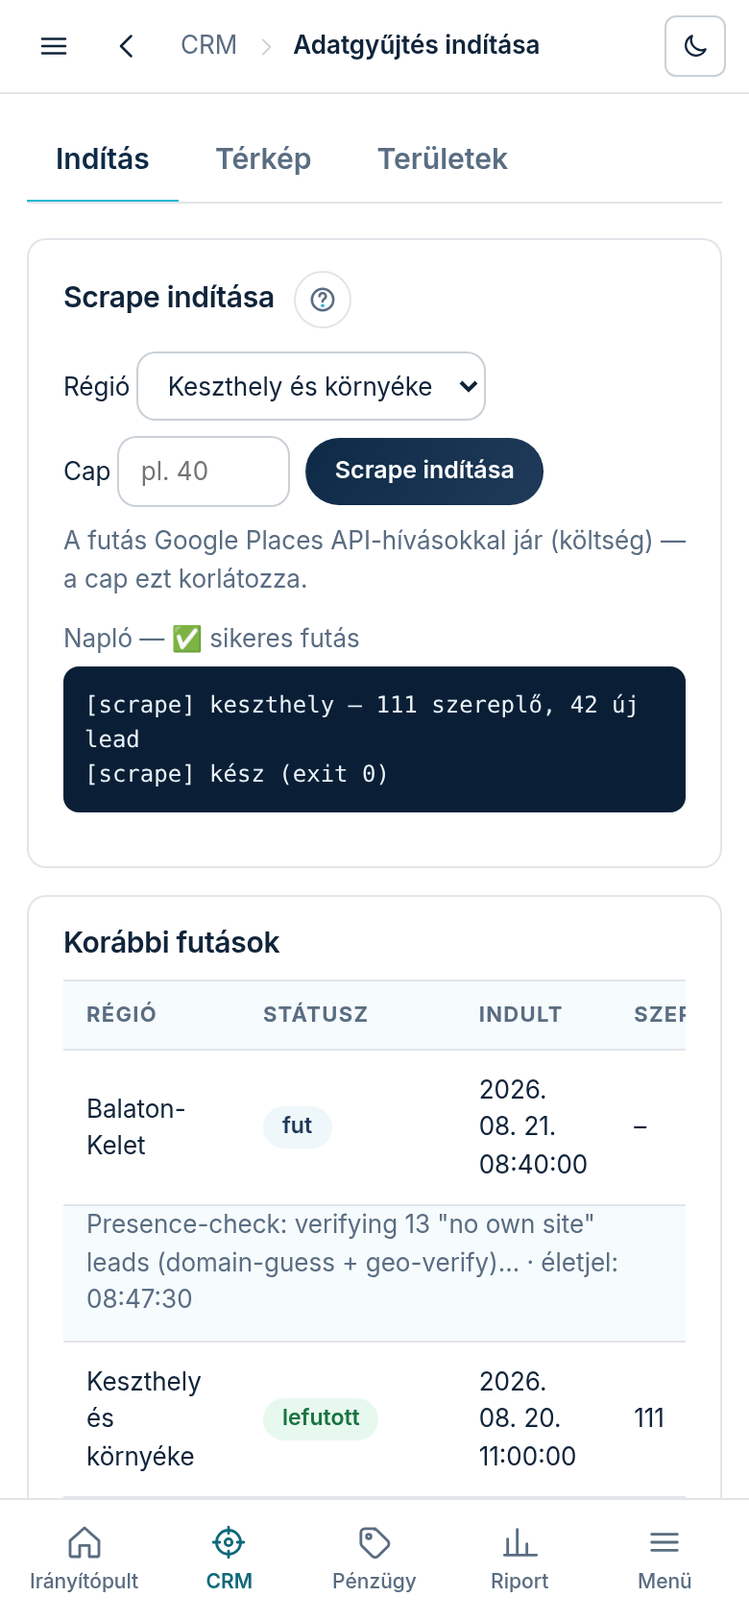
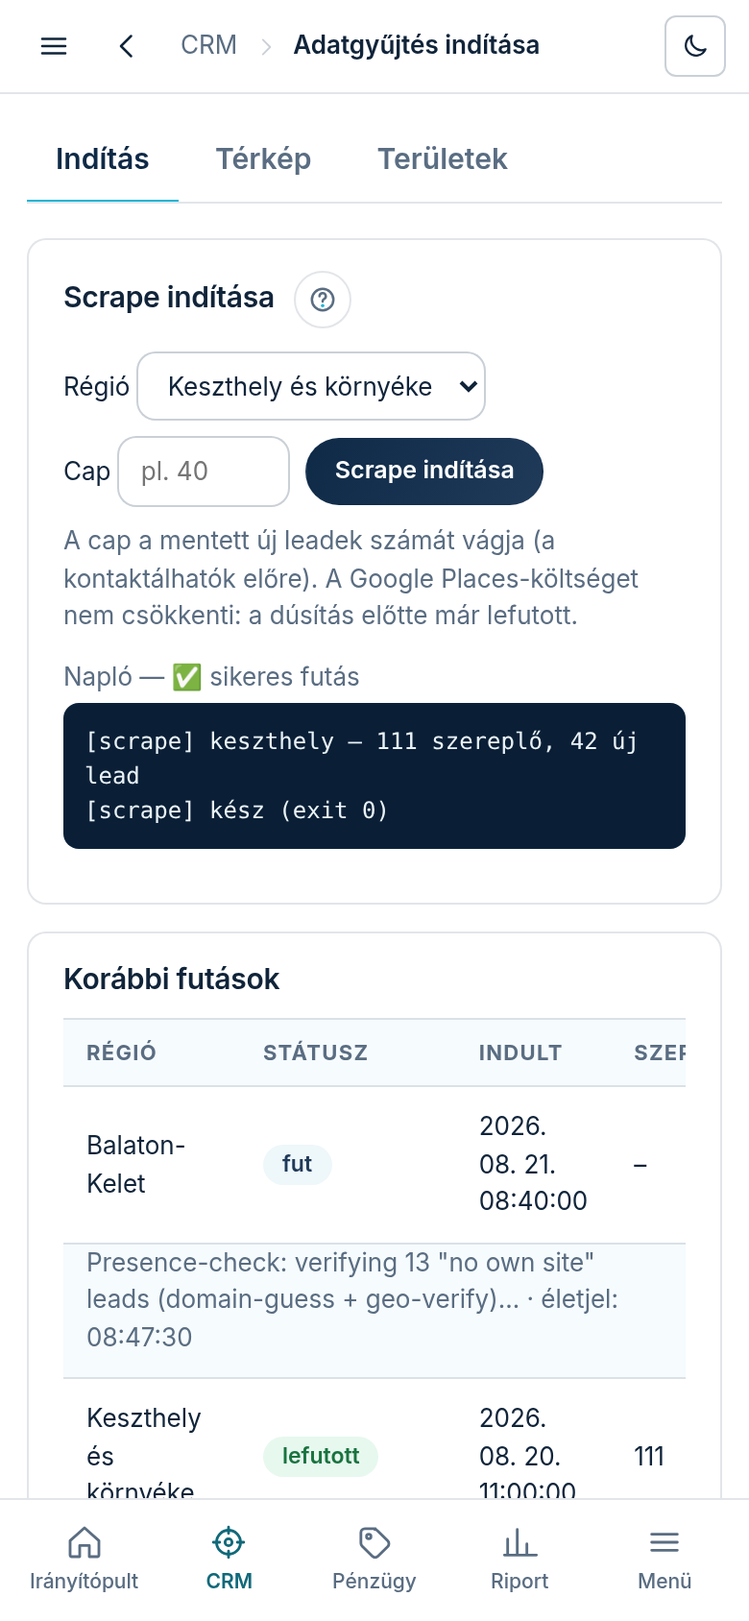
feat(scrape): nincs költség-cap — a Details-keret figyelmeztet; igaz cap-felirat; booking.com kihagyva; hovamenjek fullHd (ADR-XXXX)
- konzol + KB: a „Cap” a mentett új leadek számát vágja, a Places-költséget NEM (a dúsítás után vág); 2 súgó-kép újra
- googleMaps: PLACES_DETAILS_MAX_CALLS → figyelmeztetési szint (PLACES_DETAILS_WARN_CALLS), minden új hely adatlapot kap;
  a figyelmeztetés LeadSource.warnings() → scrape_run.stats.warnings → a konzol futás-sora
- registry: booking.com challenge_protected (AWS WAF 202, mérve) — nem olvassuk
- registry: hovamenjek largestPhotoUrl main → fullHd (a main a számozott fájlokra 404 volt); a kért kép-cache
  helyett, mert futáson belül 317/321 URL egyedi
- mérés (éles 40-es minta, lokális olvasás): backfill 98/64 s → 49/50 s; ≥800 px portál-fotó 230 → 340
- őrök: scrape-coverage-check ⑧, portal-uncapped-check 4. (+ registry trigger), photo-quality-check fullHd

Claude-Session: https://claude.ai/code/session_01R8NwBJaixta9LGg4CTWGnV

diff --git a/src/scraper/sources/googleMaps.ts b/src/scraper/sources/googleMaps.ts
@@ -89,10 +89,15 @@ const QUERY_RESULT_CEILING = 60;
  *  to full, saturation-free coverage; a 32 km circle is ~16× the area but far
  *  sparser outside the town cores. */
 const DISCOVERY_MAX_CALLS = Number(process.env.PLACES_DISCOVERY_MAX_CALLS ?? 600);
-/** Hard per-run cap on the PAID step: Place Details for ids new to our DB. Sized
- *  above the largest measured run (2026-09-27/28: 2 589 new leads over two runs);
- *  at $20/1000 the cap bounds one run at ~$80. Hitting it is LOUD. */
-const DETAILS_MAX_CALLS = Number(process.env.PLACES_DETAILS_MAX_CALLS ?? 4000);
+/** Per-run WARNING line on the PAID step: Place Details for ids new to our DB.
+ *  NOT a cap (owner, 2026-10-02: "Nincsen cap. Saját magunkat korlátozzuk be.") —
+ *  every new place still gets its Details call; crossing the line is LOUD in the
+ *  log and in the run's stats. Sized above the largest measured run (2026-09-27/28:
+ *  2 589 new leads over two runs); at $20/1000 the line sits at ~$80/run.
+ *  PLACES_DETAILS_MAX_CALLS is the pre-ADR-XXXX name, still honoured. */
+const DETAILS_WARN_CALLS = Number(
+  process.env.PLACES_DETAILS_WARN_CALLS ?? process.env.PLACES_DETAILS_MAX_CALLS ?? 4000,
+);
 /** Parallel Details requests — the throttle still bounds the rate. */
 const DETAILS_CONCURRENCY = 8;
 
@@ -686,7 +691,7 @@ type Bbox = readonly [number, number, number, number]; // [S, W, N, E]
  *
  * Cost: the traversal itself is free (IDs only); see DISCOVERY_ID_MASK for the
  * two-step design. Known place ids come back from the DB, new ones cost one Place
- * Details call each, hard-capped by DETAILS_MAX_CALLS (loud when hit).
+ * Details call each — never cut; over DETAILS_WARN_CALLS the run says so, loudly.
  */
 export class GoogleMapsSource implements LeadSource {
   readonly name = "google_places";
@@ -695,7 +700,14 @@ export class GoogleMapsSource implements LeadSource {
    *  Injectable so the guard runs without a database; the default reads `lead`. */
   constructor(private readonly knownPlaces: KnownPlacesResolver = defaultKnownPlaces) {}
 
+  private lastWarnings: string[] = [];
+
+  warnings(): string[] {
+    return [...this.lastWarnings];
+  }
+
   async fetch(query: ScrapeQuery): Promise<RawLead[]> {
+    this.lastWarnings = [];
     const key = config.googleMapsApiKey;
     if (!key) {
       console.warn(
@@ -777,9 +789,9 @@ export class GoogleMapsSource implements LeadSource {
     await walk(query.region.bbox);
 
     if (budgetHit) {
-      console.warn(
-        `[google_places] ⚠ HÍVÁS-KERET ELFOGYOTT (${DISCOVERY_MAX_CALLS}) — a lefedettség RÉSZLEGES. Emeld a PLACES_DISCOVERY_MAX_CALLS-t, vagy szűkítsd a területet.`,
-      );
+      const msg = `Google-bejárás: a hívás-keret elfogyott (${DISCOVERY_MAX_CALLS}) — a lefedettség RÉSZLEGES. Emeld a PLACES_DISCOVERY_MAX_CALLS-t, vagy szűkítsd a területet.`;
+      this.lastWarnings.push(msg);
+      console.warn(`[google_places] ⚠ ${msg}`);
     }
 
     // Step 2: what we already know costs nothing; only new ids get Details.
@@ -791,11 +803,13 @@ export class GoogleMapsSource implements LeadSource {
       if (k) byId.set(id, k);
       else fresh.push(id);
     }
-    const detailIds = fresh.slice(0, DETAILS_MAX_CALLS);
-    if (fresh.length > detailIds.length) {
-      console.warn(
-        `[google_places] ⚠ ADATLAP-KERET ELFOGYOTT (${DETAILS_MAX_CALLS}) — ${fresh.length - detailIds.length} új hely adatlap nélkül KIMARADT. Emeld a PLACES_DETAILS_MAX_CALLS-t, vagy szűkítsd a területet.`,
-      );
+    // No cap (ADR-XXXX): every new place gets its Details call. Over the warning
+    // line the run says so up front — the calls are known before they are made.
+    const detailIds = fresh;
+    if (detailIds.length > DETAILS_WARN_CALLS) {
+      const msg = `Google-adatlap: ${detailIds.length} fizetős Place Details hívás ebben a futásban (~${Math.round(detailIds.length * 0.02)} $ listaáron, 20 $/1000) — a figyelmeztetési szint ${DETAILS_WARN_CALLS}. A hívások MENNEK, nincs vágás; ha ez sok, szűkítsd a területet.`;
+      this.lastWarnings.push(msg);
+      console.warn(`[google_places] ⚠ ${msg}`);
     }
     let detailCalls = 0;
     let gone = 0;

diff --git a/src/scraper/sources/portals/registry.ts b/src/scraper/sources/portals/registry.ts
@@ -111,13 +111,16 @@ export const PORTAL_ADAPTERS: readonly PortalAdapter[] = [
     access: "open",
     listingPath: /^\/[a-z0-9-]+\/[a-z0-9-]+\/?$/i,
     // /upload/places/<placeId>/<SIZE>/<file> — the grid serves galleryMiddle (≤483px)
-    // and gallery (80px), the largest derivative is `main` (~574px on the long edge).
-    // Swap the size segment to `main`; a URL that does not fit the shape is returned
-    // untouched. (No `original` exists here — probed 2026-08-23.)
+    // and gallery (80px); the lightbox's data-src names `fullHd` (1080px on the long
+    // edge), served for EVERY gallery image. Swap the size segment to `fullHd`; a URL
+    // that does not fit the shape is returned untouched. (ADR-XXXX, measured
+    // 2026-10-02: the earlier target `main` (~574px) exists for the NAMED files only —
+    // 151 of 321 probes on 9 listings were 404s, 140.7 s of the host's 149 s request
+    // time; `fullHd` answered 206 for named and numbered files alike in ~0.2 s.)
     largestPhotoUrl: (url) =>
       url.replace(
         /(\/upload\/places\/[^/]+\/)[^/]+(\/[^/?#]+\.(?:jpe?g|png|webp))/i,
-        "$1main$2",
+        "$1fullHd$2",
       ),
     note:
       "LocalBusiness JSON-LD (cím, geo, telefon) + galéria. FIGYELEM: a robots.txt " +
@@ -169,6 +172,17 @@ export const PORTAL_ADAPTERS: readonly PortalAdapter[] = [
       "kifejezett elutasítás, NEM kerüljük meg. Ugyanaz a tartalom a booked.hu " +
       "white-label aldomainen nyíltan elérhető; a szallas.hu-hoz partner/affiliate " +
       "megállapodás a jogtiszta út (tulaj-döntés).",
+  },
+  {
+    id: "booking_com",
+    label: "booking.com",
+    hosts: ["booking.com"],
+    access: "challenge_protected",
+    note:
+      "AWS WAF-kihívás fogadja a gépi klienst (HTTP 202, ~4 KB 'challenge' oldal, adat " +
+      "nélkül) — mérve 2026-10-01: 6/6 minta, 2026-10-02: 2/2. Teljes körben ~426 jelölt-URL " +
+      "~10 perc haszontalan olvasás volt (ADR-0294 melléklet a). NEM kerüljük meg; nincs " +
+      "nyílt iker-domain. A jogtiszta út a Booking partner-API (tulaj-döntés, ADR-XXXX).",
   },
   {
     id: "kali_hu",

diff --git a/src/console/views.ts b/src/console/views.ts
@@ -7622,7 +7622,7 @@ export function scrapePage(
         <label>${T(lang, "Régió")} <select name="region">${regionOpts}</select></label>
         <label>Cap <input type="number" name="cap" min="1" placeholder="pl. 40" style="width:90px"></label>
         <button type="submit">${T(lang, "Scrape indítása")}</button>
-        <span class="small mut">${T(lang, "A futás Google Places API-hívásokkal jár (költség) — a cap ezt korlátozza.")}</span>
+        <span class="small mut">${T(lang, "A cap a mentett új leadek számát vágja (a kontaktálhatók előre). A Google Places-költséget nem csökkenti: a dúsítás előtte már lefutott.")}</span>
       </form>`;
   const logBlock = job.log.length
     ? `<div style="margin-top:12px"><label class="small mut">${T(lang, "Napló")}${job.running ? T(lang, " (élő)") : job.exitCode === 0 ? T(lang, " — ✅ sikeres futás") : T(lang, " — ⛔ exit {code}", { code: job.exitCode ?? "?" })}</label>
@@ -7630,7 +7630,7 @@ export function scrapePage(
     : "";
   const runRows = runs
     .map((r) => {
-      const s = r.stats as { players?: number; leads?: number; phase?: string };
+      const s = r.stats as { players?: number; leads?: number; phase?: string; warnings?: string[] };
       const st = scrapeStatusLabel(r, lang);
       // The sentence the row owes the operator — WHERE a running scrape stands, or
       // WHY a stopped one stopped. It lives in a full-width line UNDER the row, not
@@ -7645,7 +7645,11 @@ export function scrapePage(
                 ? ` · ${T(lang, "életjel: {time}", { time: consoleTime(r.heartbeatAt, lang) })}`
                 : ""
             }`
-          : (r.error ?? "");
+          : // A finished run's loud warnings (ADR-XXXX: e.g. paid Details calls over
+            // the warning line) stay readable here after the live log is gone.
+            [r.error, ...(Array.isArray(s.warnings) ? s.warnings.map((w) => `⚠ ${w}`) : [])]
+              .filter(Boolean)
+              .join(" · ");
       const noteRow = note
         ? `<tr><td colspan="5" class="small mut rownote"><span>${esc(note)}</span></td></tr>`
         : "";

diff --git a/src/scraper/sources/portalListing.ts b/src/scraper/sources/portalListing.ts
@@ -367,8 +367,8 @@ export async function readPortalListing(
   // through — a partner listing on the same page names a different slug and stays out.
   const vouchable = confidence.band === "high";
   // Upgrade each image to the portal's LARGEST derivative, but VERIFY it resolves: some
-  // portals expose the big size for SOME images only (hovamenjek serves /main/ for its
-  // NAMED files but 404s the numbered ones). A blind rewrite would store a broken URL,
+  // portals expose the big size for SOME images only (hovamenjek's /main/ existed for
+  // its NAMED files only — ADR-XXXX moved it to fullHd). A blind rewrite would store a broken URL,
   // so probe the upgraded variant and fall back to the original when it is missing. The
   // probe's size rides along, so keepUsablePhotos need not measure it a second time.
   const upgrade = adapter.largestPhotoUrl;

diff --git a/src/scraper/run.ts b/src/scraper/run.ts
@@ -126,6 +126,8 @@ async function main(): Promise<void> {
     }
   }
 
+  const sourceWarnings = sources.flatMap((s) => s.warnings?.() ?? []);
+
   try {
     let base = dedupeAndQualify(raw, INDUSTRY, region.id);
     // Circular area (0019): the sources fetched the enclosing rectangle, so drop
@@ -239,6 +241,8 @@ async function main(): Promise<void> {
       byStatus,
       contactChannels: channelBreakdown(leads),
       knownBeforeEnrichment: known.length,
+      // Loud source warnings (ADR-XXXX) — kept with the run, not only in the live log.
+      ...(sourceWarnings.length ? { warnings: sourceWarnings } : {}),
     };
     mark(`Mentés az adatbázisba — ${leads.length} szereplő…`);
     const { inserted, deduped } = await completeScrapeRun(runId, leads, stats);

diff --git a/src/scraper/sources/LeadSource.ts b/src/scraper/sources/LeadSource.ts
@@ -12,4 +12,10 @@ export interface LeadSource {
    * for "no results" (return []); may throw on hard failures (network/auth).
    */
   fetch(query: ScrapeQuery): Promise<RawLead[]>;
+  /**
+   * Loud, operator-facing warnings from the LAST fetch (a coverage limit hit, a
+   * paid-call volume over the warning line…). The run copies them into its stats,
+   * so they survive the live log. Optional: a source with nothing to say omits it.
+   */
+  warnings?(): string[];
 }

diff --git a/_planning/decisions/XXXX-nincs-koltseg-plafon-a-scrape-ben.md b/_planning/decisions/XXXX-nincs-koltseg-plafon-a-scrape-ben.md
@@ -1,0 +1,61 @@
+## ADR-XXXX — Nincs költség-plafon a scrape-ben: a Details-keret figyelmeztet, a cap igazul van felcímkézve; booking.com kihagyva, hovamenjek fullHd (2026-10-02)
+
+**Dátum:** 2026-10-02 · **Státusz:** elfogadva (SUB „F rész”, koordinátor: CIT „Places API 600 $” fő session; brief:
+`~/rc-briefs/places-f-nincs-cap-es-portal-gyorsitas.md`) · **Kapcsolódó:** ADR-0294 (mellékleletek a/b), ADR-0295 ③
+(Details-keret), ADR-0296 (a cap a dúsítás UTÁN vág).
+
+**Tulajdonosi döntés (2026-10-02):** „Nincsen cap. Saját magunkat korlátozzuk be.” — nem akarunk költség-plafont,
+ami megállítja a munkát; a B-SUB két gyorsítása mehet („3. Ok”).
+
+**Döntés.**
+1. **A `--cap` igaz felirata.** A konzol Scrape-űrlapja azt állította, hogy a cap „korlátozza” a Google Places-költséget.
+   Hamis: a cap a dúsítás UTÁN vág (`run.ts`), addigra minden új szereplő adatát lekérte a futás. A felirat most azt
+   mondja, amit tesz: a mentett ÚJ leadek számát vágja (a kontaktálhatók elöl), a Places-költséget nem csökkenti. A KB
+   (`console-scrape`) két helyen ugyanígy javítva (a „megszakadt” résznél is a cap-re hivatkozott költség-fékként); a
+   két súgó-kép újragyártva. A mező neve („Cap”) és helye változatlan — elrendezés nem változott.
+2. **`PLACES_DETAILS_MAX_CALLS` → figyelmeztetési szint, nem plafon.** A Google-forrás minden új place id-ra lekéri az
+   adatlapot; ha a futás hívásszáma a szint fölött van (`PLACES_DETAILS_WARN_CALLS`, a régi név is él, alap 4 000 ≈ 80 $),
+   HANGOS figyelmeztetés megy a naplóba ÉS a futás statjába (`scrape_run.stats.warnings`) — előre, a hívások előtt,
+   mert a szám akkor már ismert. A forrás-interfész új, opcionális `warnings()`-a hordozza; a konzol a lefutott futás
+   sora alatt mutatja (ugyanaz a sor, ahol a hibaüzenet áll). A felderítő bejárás `PLACES_DISCOVERY_MAX_CALLS`
+   kerete (ingyenes ID-hívások, lefedettség-korlát) változatlan, de a figyelmeztetése szintén a statba kerül.
+3. **booking.com = `challenge_protected`.** A meglévő registry-mechanizmus (szallas.hu óta): a jelölt-gyűjtés
+   eldobja, a beolvasás le sem kéri, és a felszabadult jelölt-helyre más portál jöhet. Mérve: AWS WAF-kihívás
+   (HTTP 202, ~4 KB, adat nélkül) — 2026-10-01: 6/6, 2026-10-02: 2/2 minta; dev-parkon 486 jelöltből 40 (8%),
+   ~1,3 s/URL soros olvasással → élesen a ~426 URL ≈ 9 perc egy szálon. Nyílt iker-domain nincs.
+4. **hovamenjek: `main` helyett `fullHd`, NEM cache.** A brief képméret-cache-t kért; a mérés mást mutatott:
+   egy futáson belül a kép-URL-ek 99%-a egyedi (317/321), így a cache az első teljes körön semmit nem gyorsítana, és
+   egy újraolvasást átélő cache tartós tárolót kívánna (tulaj-döntés). A valódi ok: a `largestPhotoUrl` a `main`
+   változatra írt át, ami csak a NEVES fájloknál létezik — a számozottaknál 404, és a 404 lassú (0,35–0,9 s, a 200
+   ~0,2 s). A lap lightbox-a (`data-src`) minden galériaképhez `fullHd`-t nevez meg (1080 px hosszú él), ami nevesre
+   és számozottra egyaránt 206. Az átírás célja ezért `fullHd`; a próba + visszaesés az eredetire változatlan.
+
+**Mérés (dev-park, 40 véletlen lead, valódi portál-olvasás, két váltott futás-pár).**
+| | előtte | utána |
+|---|---|---|
+| hovamenjek kép-kérés / ebből 404 | 298–306 / 140–151 | 170 / **0** |
+| hovamenjek kérés-idő (párhuzamos kérések összege) | 146–186 s | 59–70 s |
+| portál-fotó / ebből ≥ 800 px | 593–597 / 351 | 842–843 / **654** |
+| wall-idő (40 lead, 4-es párhuzamosság) | 49–52 s | 52–54 s |
+A wall-idő a dev-mintán NEM változott: ott nem a hovamenjek és nem a booking.com a padló.
+
+**Mérés (ÉLES minta: 40 véletlen éles lead, a lead-adat olvasva, a portál-olvasás lokálisan, DB-írás nélkül; két pár).**
+| | előtte | utána |
+|---|---|---|
+| wall-idő (40 lead) | 98,2 s / 63,8 s | **49,3 s / 49,5 s** (átlag −39%) |
+| hovamenjek kép-kérés / kérés-idő | 240 / 124 s | 178 / 56–67 s |
+| booking.com olvasás (ablak) | 10–18 kérés, ~46–59 s ablak | 0 |
+| portál-fotó / ebből ≥ 800 px | 437–439 / 230–232 | 488–490 / **340** |
+Az éles mintán az „előtte” padló a booking.com soros sora volt (59 s-os ablak), utána a hovamenjek (~44 s). Teljes
+parkra vetítve (1,24 s/lead × 1 057) ~22 perc — az ADR-0294 78 perces modelljét a régi kóddal ma sem sikerült
+reprodukálni (1,6–2,5 s/lead → 28–43 perc), tehát a 78 → 40 perces cél a mai hálózati viszonyok mellett már teljesül.
+A mellékhatás viszont nagy: a hovamenjek galériája 574 px helyett 1080 px-ben jön, így átmegy a 800 px-es küszöbön
+(a ≥ 800 px-es portál-fotók száma a mintán +86%).
+
+**Őr.** `scripts/scrape-coverage-check.mts` ⑧ (szint 5 mellett 180 új hely → 180 adatlap + figyelmeztetés; szint alatt
+csend) — mutáció: a régi `slice` → 6 állítás piros. `scripts/portal-uncapped-check.mts` 4. (booking.com nem olvasódik, a
+mellette álló nyitott adatlap igen; pre-commit trigger a `portals/registry.ts`-re is) — mutáció: `access: "open"` → piros.
+`scripts/photo-quality-check.mts` (a `largestPhotoUrl` → `fullHd`, a tárolt `main` URL is átíródik).
+
+**Visszafordíthatóság:** 🔄 olcsó (felirat, egy konstans jelentése, két registry-sor).
+**Elvetett:** kép-méret-cache (lásd 4.); a Details-plafon megtartása magasabb értékkel (a tulaj nem akar plafont).

diff --git a/kb/entries/console-scrape/entry.hu.md b/kb/entries/console-scrape/entry.hu.md
@@ -4,7 +4,7 @@ title: Scrape — új régió felmérése, térkép, területek
 audience: operator
 category: lead-path
 anchors: console.scrape
-updated: 2026-09-13
+updated: 2026-10-02
 ---
 
 A Scrape képernyőn indítod egy régió felmérését, és itt követed a futást élő naplóval.
@@ -17,8 +17,10 @@ Három fül: **„Indítás”**, **„Térkép”** és **„Területek”**.
 A **„Scrape indítása”** panelben:
 
 1. Válaszd ki a **„Régió”** listából a felmérendő területet.
-2. A **„Cap”** mezőbe írhatsz felső korlátot (pl. 40) — a futás Google Places API-hívásokkal jár
-   (költség), a cap ezt fogja vissza. Üresen hagyva a teljes régiót felméri.
+2. A **„Cap”** mezőbe írhatsz felső korlátot (pl. 40) — ennyi ÚJ leadet ment el a futás, a
+   kontaktálhatókat előre véve. ⚠ A Google Places-költséget a cap NEM fogja vissza: a vágás a
+   dúsítás után történik, addigra minden új szereplő adatát lekérte a futás. Üresen hagyva
+   minden új leadet elment.
 3. Koppints a **„Scrape indítása”** gombra. Futás közben az oldal 3 másodpercenként magától
    frissül, és a napló élőben mutatja, mit talál.
 
@@ -43,15 +45,18 @@ A státusz négyféle lehet:
   az a sor, amit a napló is ír — részben angol, fejlesztői szöveg), és mikor adott utoljára
   életjelet: a futás percenként jelez.
 - **„lefutott”** — végigment; a szereplő- és lead-szám ennek a sornak a jobb szélén áll
-  (telefonon oldalra húzva látod).
+  (telefonon oldalra húzva látod). Ha a futás figyelmeztetett — például több fizetős Google-
+  adatlapot kért, mint a figyelmeztetési szint (alapból 4 000, ~80 $) —, a mondat ⚠ jellel a
+  sor alatt marad. A futás ettől NEM áll meg: plafon nincs, a figyelmeztetés neked szól.
 - **„megszakadt”** — a futás nem a saját hibájából állt meg: egyszerűen elhallgatott. Szinte
   mindig azért, mert kívülről leállították — a scrape a konzolhoz tapad, így a konzol
   újraindulása (élesítés, szerver-újraindítás, összeomlás) magával viszi. A sor alatti mondat
   megmondja, melyik lépésnél érte a leállítás.
   **Teendő: indítsd el újra.** ⚠ A leadek a futás VÉGÉN kerülnek be, egyetlen lépésben —
   egy megszakadt futásból tehát semmi nem mentődött el (nulla lead), és az újraindítás a
-  Google Places-hívásokat is újra kifizetteti. Erre való a **„Cap”**. Ami korábban már bekerült,
-  azt a duplikátum-védelem nem hozza be még egyszer.
+  Google Places-hívásokat is újra kifizetteti (a **„Cap”** ezen nem segít — csak a mentett
+  leadek számát vágja). Ami korábban már bekerült, azt a duplikátum-védelem nem hozza be még
+  egyszer, és fizetős lekérést sem indít rá.
 - **„hibára futott”** — a futás magától elhasalt; a sor alatti hibaüzenet mondja meg, min.
   Itt az újraindítás önmagában rendszerint nem elég: előbb a hibaokot kell megszüntetni.
 

diff --git a/_planning/memory/2026-10-02_f_nincs_cap_portal_gyorsitas.md b/_planning/memory/2026-10-02_f_nincs_cap_portal_gyorsitas.md
@@ -1,0 +1,27 @@
+# 2026-10-02 — Places F (SUB): nincs költség-cap, booking.com kihagyva, hovamenjek fullHd
+
+**Brief:** `~/rc-briefs/places-f-nincs-cap-es-portal-gyorsitas.md` · koordinátor: CIT „Places API 600 $” (`~/wt/citddb048b5`)
+· döntés: ADR-XXXX (`_planning/decisions/XXXX-nincs-koltseg-plafon-a-scrape-ben.md`).
+
+## Elvégezve
+1. **Cap-felirat** (`src/console/views.ts`, KB `console-scrape` két helyen, `screen.png` + `runs.png` újragyártva
+   `kb-shot --out`-tal, csak ez a kettő tért el): a cap a mentett új leadek számát vágja, a Places-költséget nem.
+   A mező neve „Cap” maradt (a KB **„Cap”** idézetei érvényesek). A `help-start/approved-C.html` befagyott
+   terv-kontraktus régi KB-pillanatképet tartalmaz — szándékosan nem írtam át.
+2. **Details-keret = figyelmeztetés** (`googleMaps.ts`, `LeadSource.warnings()`, `run.ts` → `stats.warnings`, konzol
+   futás-sor ⚠). Őr: `scrape-coverage-check` ⑧ (mutációval 6 piros).
+3. **booking.com `challenge_protected`** (`portals/registry.ts`). Mérve: AWS WAF 202, ~4 KB. Őr: `portal-uncapped-check` 4.
+   (mutációval piros), pre-commit trigger a registry-re is.
+4. **hovamenjek `fullHd`** a kért cache HELYETT — indok és mérés az ADR-ben (futáson belül 317/321 egyedi URL, a lassúság
+   a `main` 404-jeiből jött). `photo-quality-check` igazítva. `portal-backfill.mts` becslése frissítve (49,4 s / 40 lead).
+
+## Mérések
+- dev 40 lead (2 pár): hovamenjek 404 140–151 → 0; ≥800 px fotó 351 → 654; wall változatlan (~50 s).
+- éles 40 lead (2 pár, lokális olvasás, DB-írás nélkül): wall 98,2 / 63,8 s → 49,3 / 49,5 s; ≥800 px 230 → 340.
+- A régi 78 perces becslés a régi kóddal ma sem reprodukálódott (1,6–2,5 s/lead).
+
+## Nyitott (a koordinátornak)
+- A `PLACES_DISCOVERY_MAX_CALLS` (600) ma is megállítja a bejárást — ingyenes hívások, lefedettség-korlát, nem költség;
+  a „nincs cap” döntés erre is vonatkozik-e?
+- A memória `project_after_deploy_portal_backfill` „~78 perc”-et ír — a mérés szerint ~20–45 perc várható.
+- A tárolt hovamenjek `main` URL-ek (régi olvasások) a következő újraolvasáskor `fullHd`-re cserélődnek.

diff --git a/MEMORY.md b/MEMORY.md
@@ -11,12 +11,22 @@ Utolsó frissítés: 2026-10-01 (🗣 **Elek SZ — vendég-kritikus a mock-s
 > Amíg ez nem futott le, éles vevőt nem érdemes ráengedni. Utána az előfizetést le kell mondani
 > (a megújítás listaáron menne).
 
+<<<<<<< HEAD
 ## Párhuzamos szál (2026-10-02 — SUB: Places-költség G rész, napi Google API költség-riport, ADR-0297) — LANDOLVA
 
 Reggel 07:10-kor (dev-időzítő `citoviso-google-cost-report.timer`) levél a tegnapi Google API hívásokról: service × method,
 listaáras BECSLÉS, összevetés a 7 napos átlaggal, `[FIGYELEM]` küszöb (20 $) / ≥2× tétel esetén, `[NINCS ADAT]` ha a token
 vagy a Monitoring bukik. Semmit nem korlátoz. Ártábla egy helyen: `src/ops/googleCostReport.ts`. Őr: `google-cost-report-check`.
 Az első riport (10-01, ~11,68 $) kiment. Jegyzet: `_planning/memory/2026-10-02_g_napi_google_koltseg_riport.md`.
+=======
+## Párhuzamos szál (2026-10-02 — SUB: Places-költség F rész — nincs cap + portál-gyorsítás, ADR-XXXX) — LANDOLVA
+
+① A konzol „Cap” felirata igazul: a mentett ÚJ leadek számát vágja, a Places-költséget NEM (KB + 2 súgó-kép).
+② `PLACES_DETAILS_MAX_CALLS` → figyelmeztetési szint (`PLACES_DETAILS_WARN_CALLS`), a hívások mennek; a figyelmeztetés a
+`scrape_run.stats.warnings`-ba és a konzol futás-sorába kerül. ③ booking.com `challenge_protected` (AWS WAF, mérve).
+④ hovamenjek: kép-cache helyett `main` → `fullHd` (a `main` számozott fájlra 404 volt): éles 40-es mintán a backfill
+98/64 s → 49/50 s, ≥800 px portál-fotó 230 → 340. Jegyzet: `_planning/memory/2026-10-02_f_nincs_cap_portal_gyorsitas.md`.
+>>>>>>> 35a9dc13 (feat(scrape): nincs költség-cap — a Details-keret figyelmeztet; igaz cap-felirat; booking.com kihagyva; hovamenjek fullHd (ADR-XXXX))
 
 ## Párhuzamos szál (2026-10-02 — SUB: Places-költség E rész + éjszakai UTC-kapu, ADR-0296) — LANDOLVA
 

diff --git a/_planning/memory/INDEX.md b/_planning/memory/INDEX.md
@@ -8,6 +8,7 @@
 
 - [2026-10-02_places_kurator_gomb_b.md](2026-10-02_places_kurator_gomb_b.md) — 2026-10-02 — Places-fotók kurátori gombja: két forrás-sáv a Fotók fülön (C rész, terv „B”)
 - [2026-10-02_g_napi_google_koltseg_riport.md](2026-10-02_g_napi_google_koltseg_riport.md) — 2026-10-02 — Places-költség G rész: napi Google API költség-riport e-mailben (SUB)
+- [2026-10-02_f_nincs_cap_portal_gyorsitas.md](2026-10-02_f_nincs_cap_portal_gyorsitas.md) — 2026-10-02 — Places F (SUB): nincs költség-cap, booking.com kihagyva, hovamenjek fullHd
 - [2026-10-02_e_ismert_lead_nem_fizet_es_utc_kapu.md](2026-10-02_e_ismert_lead_nem_fizet_es_utc_kapu.md) — 2026-10-02 — Places-költség E rész: az ismert lead nem fizet + a module-render-check UTC-hibája (SUB)
 - [2026-10-01_v1_level_link_get_nem_dont.md](2026-10-01_v1_level_link_get_nem_dont.md) — 2026-10-01 — Elek V-1: a levél-link megnyitása (GET) nem dönt
 - [2026-10-01_t1_terkep_modul_es_elonezet_tu.md](2026-10-01_t1_terkep_modul_es_elonezet_tu.md) — T-1: a megvett Térkép-modul hiányzott az élő oldalról; H-1 óriás előnézeti tű; L-5 nem hiba (2026-10-01)

diff --git a/_planning/DECISIONS.md b/_planning/DECISIONS.md
@@ -16,6 +16,7 @@
 
 <!-- GENERÁLT FÁJL (scripts/planning-index.mts build) — ne szerkeszd kézzel. -->
 
+- [ADR-XXXX](decisions/XXXX-nincs-koltseg-plafon-a-scrape-ben.md) — Nincs költség-plafon a scrape-ben: a Details-keret figyelmeztet, a cap igazul van felcímkézve; booking.com kihagyva, hovamenjek fullHd (2026-10-02)
 - [ADR-0297](decisions/0297-napi-google-api-koltseg-riport-e-mailben.md) — Napi Google API költség-riport e-mailben: listaáras becslés a Monitoring hívásszámaiból, csak szól, nem korlátoz (2026-10-02)
 - [ADR-0296](decisions/0296-az-ismert-lead-nem-megy-at-a-scrape-fizetos.md) — Az ismert lead nem megy át a scrape fizetős dúsításán (store-dedup a dúsítás ELŐTT) (2026-10-02)
 - [ADR-0295](decisions/0295-a-places-felderites-ingyenes-id-bejarassal-megy.md) — A Places-felderítés ingyenes ID-bejárással megy; fizetős adatlap csak a DB-ben még nem ismert helyre (2026-10-01)
